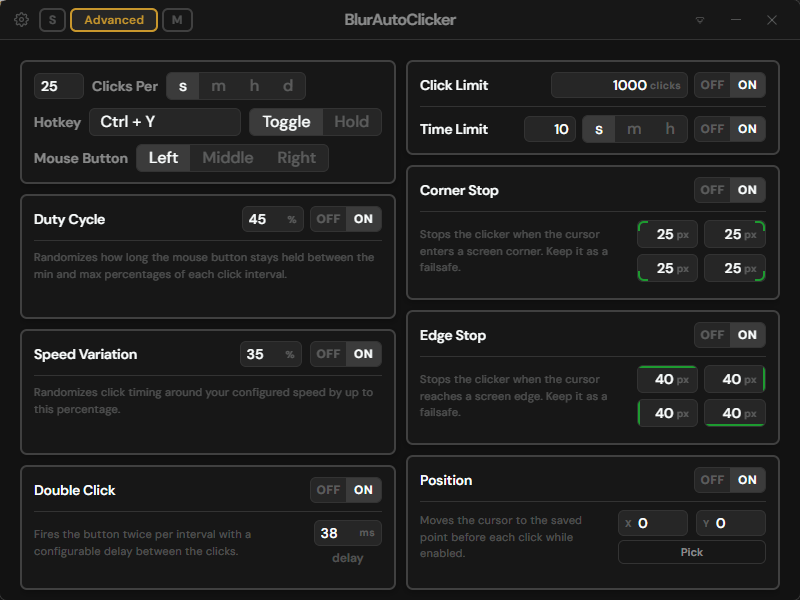
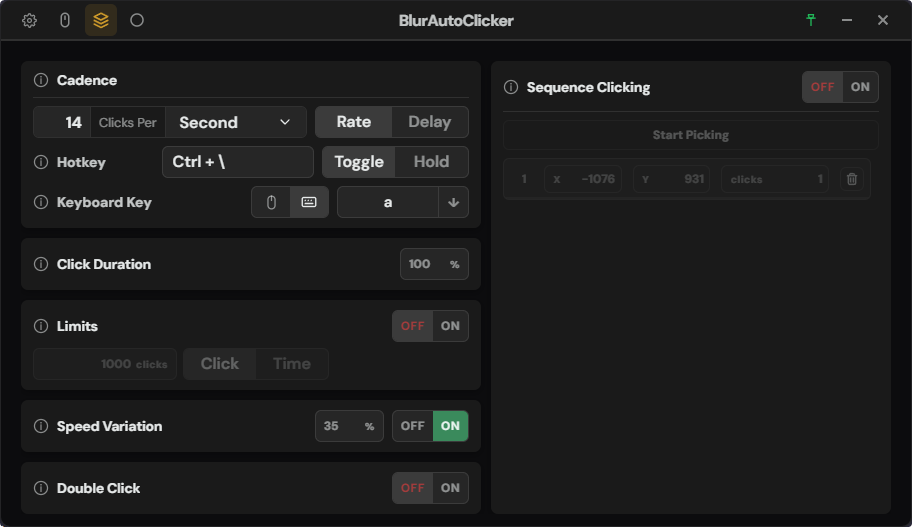
version increment

diff --git a/CHANGELOG.md b/CHANGELOG.md
@@ -1,4 +1,4 @@
-# v3.7.0 - 17.05.2026 (d.m.y)
+# v3.7.0 - 21.05.2026 (d.m.y)
 ## New
 - Added Sequence picking instead of a timer.
 - Added Sequence picking showing dots where clicks will happen. They only show if you change the value, and will disappear after a few seconds.